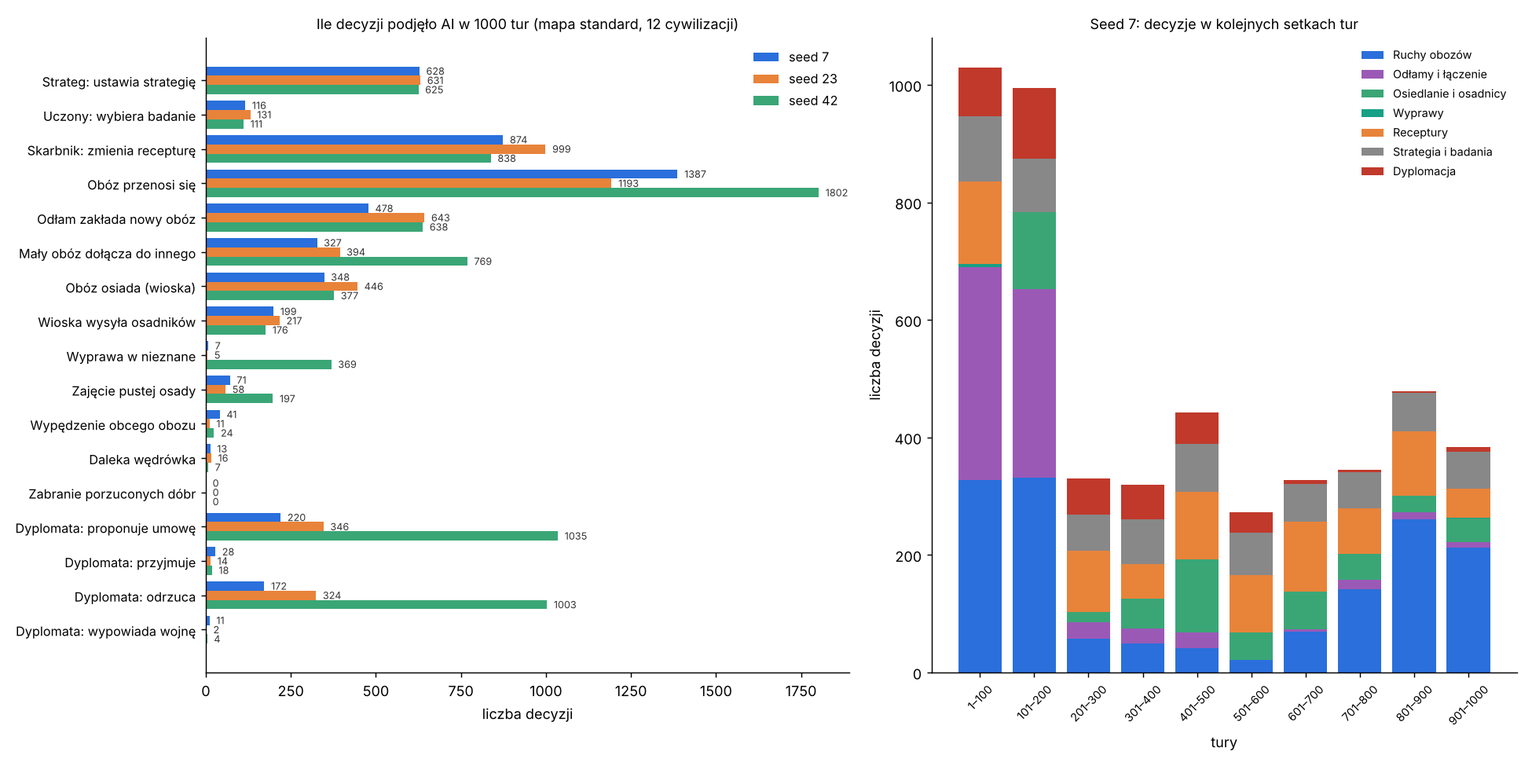
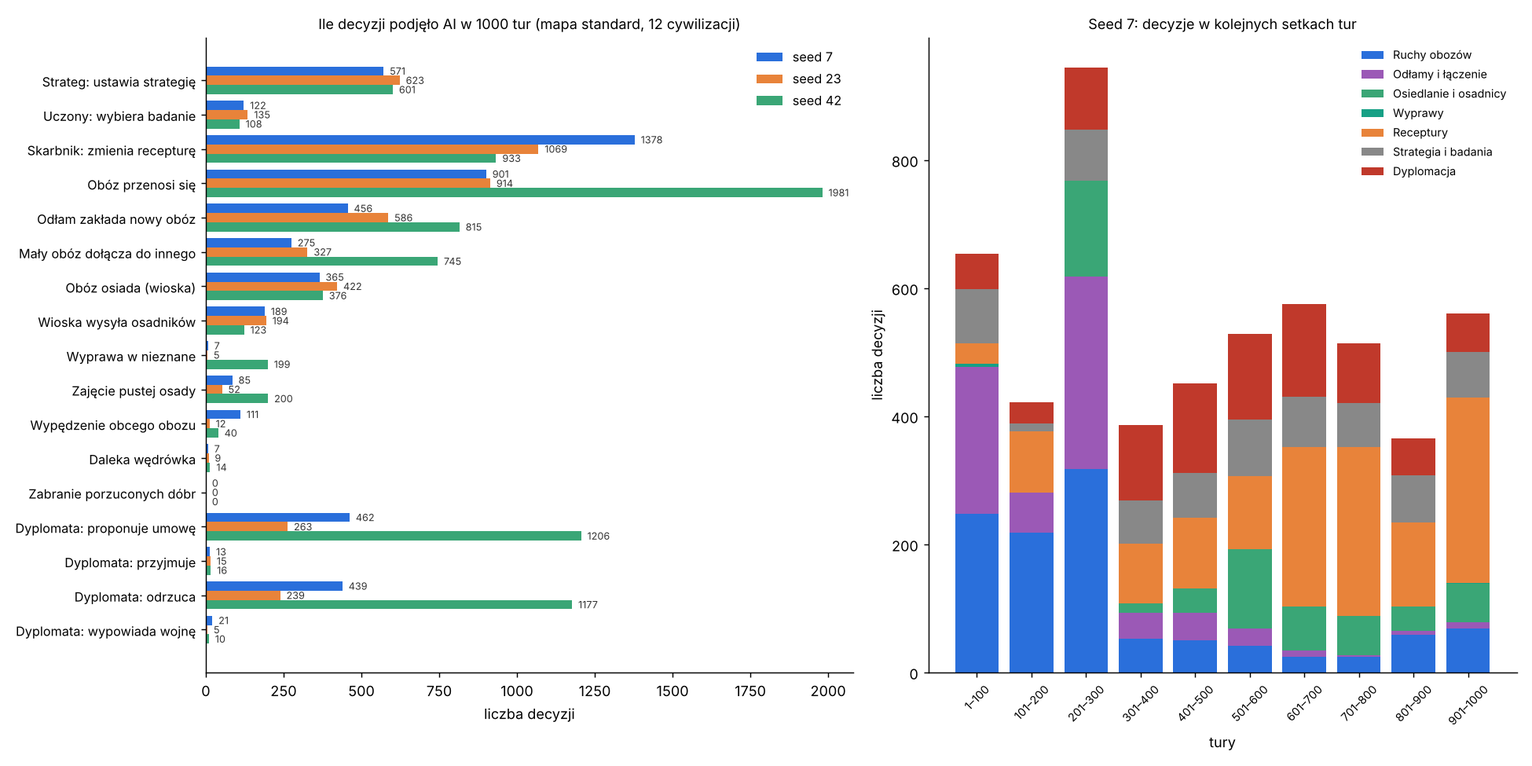
Stage 4e PR 2: docs, statistics, roadmap
Claude-Session: https://claude.ai/code/session_01G7FPnTQzrnWpHdyxDhMmdW

diff --git a/docs/ai/README.md b/docs/ai/README.md
@@ -4,7 +4,7 @@ Ten katalog opisuje **każdą decyzję**, którą podejmuje sztuczna inteligencj
 na podstawie jakich danych, według jakiego wzoru, z jakimi progami i gdzie to jest w kodzie. Jest pisany dla Patryka:
 żeby można było ocenić, czy mechanika nie jest za prosta albo za skomplikowana i bez sensu.
 
-**Stan opisu:** etap 4d + zegar świata (ADR 0018) + wartości i priorytety (PR B, ADR 0019) + ziemia i migracje (PR C) + fachy, ludzie i demografia (cały etap 4F) + wojna z celem i pokój z warunkami (etap 4e PR 1, gałąź `feat/war-goals`). Dowódca i armie (4e PR 2–4) jeszcze nie istnieją.
+**Stan opisu:** etap 4d + zegar świata (ADR 0018) + wartości i priorytety (PR B, ADR 0019) + ziemia i migracje (PR C) + fachy, ludzie i demografia (cały etap 4F) + wojna z celem i pokój z warunkami (etap 4e PR 1) + epizody i pierwszy dowódca (etap 4e PR 2, gałąź `feat/war-episodes`). Armie z wielu osad, bitwy w rundach i pełny dowódca: 4e PR 3–5.
 **Aktualizacja:** po każdym etapie, który zmienia AI (zasada w `CLAUDE.md`). Historia zmian jest na dole tej strony.
 
 ## Jak czytać
@@ -13,7 +13,7 @@ na podstawie jakich danych, według jakiego wzoru, z jakimi progami i gdzie to j
 2. [Wspólne mechanizmy](01-wspolne-mechanizmy.md): jak AI liczy ocenę, jak wybiera, czym jest charakter i waga celu. Bez tego reszta
    jest niezrozumiała, bo wszyscy doradcy liczą tak samo.
 3. Doradcy, każdy w osobnym pliku: [Strateg](02-strateg.md), [Gubernator](03-gubernator.md), [Skarbnik](04-skarbnik.md),
-   [Uczony](05-uczony.md), [Dyplomata](10-dyplomata.md).
+   [Uczony](05-uczony.md), [Dyplomata](10-dyplomata.md), [Dowódca](11-dowodca.md) (od etapu 4e).
 4. [Co AI wie](06-wiedza-i-relacje.md): pamięć mapy, kontakty, sympatia i zaufanie.
 5. [Wszystkie liczby](07-parametry.md): każdy parametr z plikiem, wartością i decyzją, na którą wpływa. Także liczby zaszyte w kodzie.
 6. [Ocena i uwagi](08-ocena-i-uwagi.md): co naprawdę działa, co jest tylko „na papierze”, gdzie AI jest za proste, a gdzie
@@ -67,7 +67,8 @@ zjedli” to wynik poprzedniego kroku tej cywilizacji).
 | **T1** | Skarbnik | jaką recepturę robią rzemieślnicy osady | `SetRecipeCommand` | własny krok na decyzje wolne | [04-skarbnik.md](04-skarbnik.md) |
 | **U1** | Uczony | jaką technologię badać: priorytet (co da tej cywilizacji) × przeszkoda kosztu | `SetResearchCommand` | gdy nic nie jest badane (reaktywnie, każdy krok świata) | [05-uczony.md](05-uczony.md) |
 | **D1** | Dyplomata | przyjąć czy odrzucić propozycję umowy | `AnswerProposalCommand` | każdy krok świata (reaktywnie) | [10-dyplomata.md](10-dyplomata.md#d1-odpowiedź-na-propozycję-reaktywna) |
-| **D2** | Dyplomata | jeden krok wobec spotkanych: handel, pakt o nieagresji, sojusz obronny, wojna, pokój | `ProposeTreatyCommand`, `DeclareWarCommand` | co 50 lat we własnym kroku (rozłożone); od razu po wypowiedzianej wojnie albo napadzie | [10-dyplomata.md](10-dyplomata.md#d2-przegląd-stosunków-proaktywny) |
+| **D2** | Dyplomata | jeden krok wobec spotkanych: handel, pakt o nieagresji, sojusz obronny, wojna, pokój | `ProposeTreatyCommand`, `DeclareWarCommand` | co 50 lat we własnym kroku (rozłożone); od razu po wypowiedzianej wojnie albo napadzie; pokój także w każdym kroku świata między kampaniami, gdy strona jest zmęczona albo wynik pozwala żądać warunków (od 4e PR 2) | [10-dyplomata.md](10-dyplomata.md#d2-przegląd-stosunków-proaktywny) |
+| **K1** | Dowódca | wysłać kampanię: wojownicy jednej osady przeciw osadzie wroga (od 4e PR 2) | `LaunchCampaignCommand` | własny krok i miesiąc po alarmie (wojna, napaść) | [11-dowodca.md](11-dowodca.md) |
 
 **Własny krok na decyzje wolne:** własny krok cywilizacji, który zaczyna okres o długości kroku jej ery (`WorldClock.PlansNow`). Na
 Ziemi to każdy własny krok (poza krótszym krokiem zaraz po zmianie ery); na planecie z porami roku na żywo krok jest krótszy, a
@@ -127,6 +128,7 @@ w `docs/systems/`:
 | 2026-11-06 | zegar (ADR 0018) | Rytm każdej cywilizacji: decyzje proaktywne we własnym kroku, reaktywne (alarmy wojny i napadu, propozycje, wybór badania) w każdym kroku świata; nowe reakcje D2 i G2; odstępy AI w własnych krokach (`reviewEverySteps`, `searchEverySteps`, `minStepsBetweenMoves`); zwiad, widzenie i pogłoski w własnym kroku; nowe statystyki, wykres rytmów i ludności przed/po. |
 | 2026-11-06 | wartości (PR B, ADR 0019) | Uczony od nowa (priorytet z położenia, braków i charakteru, koszt jako przeszkoda łagodzona ciekawością); skarbnik: cele towarów, koordynacja sieci, koniec przełączania „praca ↔ brak”, premia za handel; strateg: wagi nauki i wpływu; „zostać” z połową wagi ekspansji; obce obozy i wojownicy tylko z pól widzianych teraz; 11 liczb z kodu do `data/ai.json` (sekcja `scholar`); test martwych wartości; nowe statystyki z 3 seedów, wykresy decyzji i „przed/po”. |
 | 2026-11-06 | ziemia i migracje (PR C) | Gubernator wycenia ziemię z technologiami zbierania cywilizacji, rybacy liczą wodę; G4 osiedlenie dla prawdziwej liczby producentów i w porównaniu ze zbieractwem i ekspansywnością (`settleOverGatheringPercent`); nowe decyzje G7 (wioska wysyła osadników) i G8 (wyprawa w nieznane); osadnicy omijają strefy własnych osad; zwiad i marsz na stulecie (`data/perception.json`); nowe parametry w `data/ai.json`; punkty 4, 5, 6 i 8 oceny zamknięte, nowy punkt 10 (wydajność); statystyki z 3 seedów, wykres ziemi i migracji, wykres decyzji z G7 i G8. |
+| 2026-11-07 | epizody i kampanie (etap 4e, PR 2) | Nowy doradca: dowódca (K1) wysyła kampanie (szansa z tego, co widzi, próg 60%; cel niewidoczny: idą zobaczyć i zawracają przed silniejszym). Dyplomata myśli o pokoju w każdym kroku świata między kampaniami (zmęczenie ≥ 60 albo wynik ≥ 20). Alarmy dają krok świata po miesiącu (reakcje szybciej). Zmęczenie z miesięcy kampanii, nie z lat. Parametry dowódcy chwilowo w `data/war.json` (do `ai.json` w PR 5). |
 | 2026-11-07 | wojna z celem (etap 4e, PR 1) | Dyplomata: cel wojny (ziemia przy roszczeniu, inaczej odwet), zmęczenie wojną (lata + straty, `data/war.json`) zamiast lat wojny w ocenie pokoju, nowy czynnik „warunki pokoju”, pokój proponowany z warunkami (osada, okup, biały) i przy zmęczeniu ≥ 60 w każdym kroku; agresja jako powód wojny. Nowe parametry w `07-parametry.md`, statystyki wojen w `09-statystyki.md`, nowy wykres decyzji. |
 | 2026-11-06 | koniec etapu 4F (PR 5) | Bez zmian w decyzjach AI. Statystyki z 3 seedów po całym etapie 4F (obozy przenoszą się 5–9 razy rzadziej przy wolniejszym przyroście), nowy wykres decyzji, sekcja „Demografia” w statystykach; graf technologii i fachów z danych: `docs/systems/graf-technologii.md`. |
 | 2026-11-06 | demografia (etap 4F, PR 4) | Bez zmian w decyzjach AI i w `data/ai.json`. Ludzie rosną wolniej (+1,0‰ na rok na start), więc po kilku turach rzadziej są obce odłamy: w teście martwych wartości sytuacja „wypędzenie” dostaje w razie potrzeby małą placówkę sąsiada i stary uraz (sympatia −5000). |

diff --git a/docs/systems/episodes.md b/docs/systems/episodes.md
@@ -1,0 +1,50 @@
+# Epizody (krótki zegar)
+
+**W jednym zdaniu:** zdarzenia z przebiegiem, które w rzeczywistości trwają tygodnie albo miesiące (dziś kampanie wojenne), liczą się we własnych krokach co miesiąc, a reszta świata zostaje na długich krokach er (ADR 0022, GDD 6.2).
+
+**Faza tury:** zegar w fazie zapisu (`CalendarSystem`, `WorldClock.Begin` i `WorldClock.Shorten`); kampanie w fazie walki (`CampaignSystem`, faza 6); decyzje dowódcy i dyplomaty w fazie decyzji.
+
+**Stan:** etap 4e PR 2: silnik epizodów i pierwsza kampania.
+
+## Dane wejściowe i wyjściowe
+- Czyta: `data/war.json` (krok kampanii, marsz, ciche wygasanie wojny, progi dowódcy), kroki cywilizacji, wojny, alarmy.
+- Zmienia: `GameState.Episodes` (lista epizodów), `GameState.StepMonths` (długość kroku świata) i `GameState.WorldMonths` (ile miesięcy liczy sam świat), wojowników i zapasy osad, wynik i zmęczenie wojny.
+- Publikuje: kronika (wyprawa wyszła, najazd, zdobycie, odwrót, powrót); Headless `--wars` (kampanie, miesiące kampanii). Migawka dla podglądu: w PR 3.
+
+## Przepływ
+
+```mermaid
+flowchart TD
+  B["Początek kroku świata<br/>WorldClock.Begin"] --> P{"Czy jakaś cywilizacja<br/>ma krok?"}
+  P -- tak --> F["Krok pełny: świat liczy klimat, odrastanie,<br/>strefy za miesiące do następnego kroku cywilizacji<br/>(WorldMonths)"]
+  P -- nie --> E["Krok epizodów: świat czeka<br/>(WorldMonths = 0)"]
+  F --> D["Decyzje: cywilizacje w kroku + alarmy<br/>dowódca wysyła kampanię, dyplomata myśli o pokoju"]
+  E --> D
+  D --> C["Walka: kampanie, których krok przypada teraz<br/>marsz 3 pola, walka u celu, powrót"]
+  C --> S["Shorten: kampania, alarm albo cicha wojna<br/>skracają krok świata"]
+  S --> N["Następny krok świata = najbliższy krok<br/>cywilizacji, epizodu, alarmu albo końca cichej wojny"]
+```
+
+## Zasady i wzory
+- **Krok świata** trwa do najbliższego z: kroku jakiejś cywilizacji (rytm ery, ADR 0018), kroku epizodu (kampania: co miesiąc), reakcji na alarm (następny miesiąc), końca cichej wojny (5 lat bez kampanii).
+- **Krok pełny** (ktoś ma krok ery): świat liczy klimat, pory roku, odrastanie dzikiej żywności, odpoczynek ziemi, strefy i spory za `WorldMonths` = miesiące do następnego kroku cywilizacji. Kroki epizodów leżą w środku tego okresu i nie liczą go drugi raz.
+- **Krok epizodów:** żadna cywilizacja nie ma kroku; systemy świata nie liczą nic, liczą się tylko kampanie, odpowiedzi na propozycje i decyzje po alarmach.
+- **Skrócenie kroku** (`WorldClock.Shorten`, przed upływem czasu): gdy w kroku wysłano kampanię, wypowiedziano wojnę (alarm) albo cicha wojna kończy się wcześniej, krok świata kończy się wcześniej. Kroki cywilizacji (gospodarka liczona na cały ich krok) się nie zmieniają.
+- **Kampania** (`LaunchCampaignCommand`, `CampaignSystem`):
+  - wychodzą wojownicy jednej osady: co najmniej 5, najwyżej 2/3 (1/3 zostaje w domu);
+  - marsz: 3 pola na miesiąc po znanych polach (ok. 150 km na pole; ok. 15 km dziennie);
+  - u celu wojownicy widzą osadę: atakują tylko przy szansie co najmniej 60%, inaczej wracają;
+  - walka: szansa = ich udział w sile (wojownicy przeciw wojownikom + 25% reszty mieszkańców), na strumieniu `combat`; straty jak przy napaści;
+  - wygrana: łupy (tyle, ile uniosą wojownicy, ten sam udział każdego zapasu); w wojnie o ziemię zdobyta wioska przechodzi z ludźmi do zwycięzcy, a pokonani mają do niej roszczenie;
+  - powrót: ocaleni i łupy wracają do osady (albo do najbliższej własnej, gdy domu już nie ma).
+- **Wojna** (`WarSystem`): wojna bez kampanii przez 5 lat kończy się białym pokojem; zmęczenie = miesiące kampanii × 5 + procent zabitych × 3.
+
+## Pliki danych
+- `data/war.json`: `campaignStepMonths` 1, `marchCellsPerMonth` 3, `quietPeaceYears` 5, `wearinessPerCampaignMonth` 5, `minWinChancePercent` 60, `sendPercent` 67, `minWarriors` 5 (ostatnie trzy przejdą do `data/ai.json` z dowódcą w PR 5).
+
+## Testy
+- `EpisodeTests`: kampania dodaje kroki co miesiąc, a świat czeka; cicha wojna kończy się po 5 latach, a nie w następnym długim kroku; kampania zawraca przed zbyt silnym celem; kampania wymaga wojny i zostawia 1/3 w domu; zapis w trakcie marszu i dalsza gra dają ten sam hash.
+- `DeterminismTests`, `WorldGeneratorTests`: nowe wartości kontrolne hashy.
+
+## Wydajność
+- Krok epizodów kosztuje ułamek milisekundy (świat nie liczy nic). Pomiar całej gry: w opisie PR.

diff --git a/docs/systems/war.md b/docs/systems/war.md
@@ -4,7 +4,7 @@
 
 **Faza tury:** 6. Walka (`WarSystem`), w krokach cywilizacji (ADR 0018). Wypowiedzenie wojny i pokój: faza decyzji (komendy dyplomaty).
 
-**Stan:** PR 1 zrobiony (cel, wynik, zmęczenie, pokój z warunkami). Wyprawy, uzbrojenie, bitwy, zaopatrzenie i dowódca w PR 2–4 (`docs/prompts/07-etap-wojna.md`).
+**Stan:** PR 1 (cel, wynik, zmęczenie, pokój z warunkami) i PR 2 (kampanie jako epizody z krokiem co miesiąc, `docs/systems/episodes.md`, ADR 0022). Wyprawy, uzbrojenie, bitwy, zaopatrzenie i dowódca w PR 2–4 (`docs/prompts/07-etap-wojna.md`).
 
 ## Dane wejściowe i wyjściowe
 - Czyta: `data/war.json`, traktaty (`TreatyBook`), wspomnienia relacji, osady stron.
@@ -17,8 +17,9 @@
 flowchart TD
   C["Powód: zabrana osada, napaść"] --> D["Wypowiedzenie z celem<br/>ziemia, łupy, odwet"]
   D --> R["Świadkowie pamiętają napaść<br/>(łupy 100%, ziemia 50%, odwet 0%)"]
-  D --> W["Walki: napaści w czasie wojny<br/>wynik ± za walkę i zdobytą osadę"]
-  W --> Z["Zmęczenie co krok:<br/>lata wojny + straty"]
+  D --> W["Kampanie co miesiąc (epizody) i napaści obozów<br/>wynik ± za walkę i zdobytą osadę"]
+  W --> Z["Zmęczenie:<br/>miesiące kampanii + straty"]
+  W --> Q["5 lat bez kampanii:<br/>biały pokój"]
   Z --> M["Efekt war_weariness: nastrój −"]
   Z --> P["Pokój z warunkami<br/>osada / okup / biały"]
   P --> T["Rozejm"]
@@ -31,7 +32,9 @@ flowchart TD
   pamiętają ją w procencie z celu: ziemia 100/50, łupy 100/100, odwet 50/0.
 - **Wynik** (`Treaty.Score`, z perspektywy strony A, −100…+100, `Wars.RecordFight`): napaść w czasie wojny daje zwycięzcy +10, a zdobyta osada +15 więcej.
   Straty to ludzie zabici w walce (wojownicy obu stron i uciekający), liczone osobno dla stron.
-- **Zmęczenie** (`Wars.ComputeWeariness`, co turę w `WarSystem`): `lata wojny × 1 + procent ludzi strony zabitych w wojnie × 3`, najwyżej 100.
+- **Zmęczenie** (`Wars.ComputeWeariness`, co krok świata w `WarSystem`): `miesiące kampanii w tej wojnie × 5 + procent ludzi strony zabitych w wojnie × 3`, najwyżej 100 (od PR 2; w PR 1 liczyły się lata wojny).
+- **Kampanie** (PR 2, `docs/systems/episodes.md`): wyprawa wojowników jednej osady maszeruje co miesiąc, walczy u celu i wraca z łupami; w wojnie o ziemię zdobyta wioska przechodzi z ludźmi.
+- **Ciche wygasanie** (PR 2): wojna, w której przez 5 lat nikt nie prowadził kampanii, kończy się białym pokojem (zegar robi krok dokładnie w tym miesiącu).
   Ludzie strony to jej ludność w chwili wypowiedzenia.
 - **Nastrój:** każda cywilizacja w wojnie dostaje efekt `war_weariness` (nastrój wszystkich osad) = −największe zmęczenie × 20 / 100; trwa jeszcze
   jedną turę po końcu wojny.
@@ -57,6 +60,7 @@ Przy każdym etapie nowej ery (etapy 6–12) sprawdź i uzupełnij:
 - `data/war.json` (PR 1).
 
 ## Testy
+- `EpisodeTests` (PR 2): kampanie co miesiąc, ciche wygasanie, odwrót przed silnym celem, 1/3 w domu, zapis w trakcie marszu.
 - `WarTests` (PR 1): dane; cel, który da się nazwać; agresja u ofiary i świadków według celu; wynik i zmęczenie z lat i strat; spadek nastroju;
   zwycięzca bierze osadę, o którą była wojna; okup w wojnie o łupy; złe warunki odrzucone; zapis; błędy w danych.
 - `TreatyTests`: wojny z celem „łupy” (tekst kroniki „for loot”).

diff --git a/docs/ai/10-dyplomata.md b/docs/ai/10-dyplomata.md
@@ -81,8 +81,11 @@ osada), w innym razie **odwet**. Wojny o łupy dyplomata sam nie wypowiada (to d
   `(miesiąc + 84 × numer cywilizacji) mod 600 < długość jej kroku w miesiącach` (84 miesiące = 7 lat, `reviewStaggerYears`). W epoce kamienia (krok 50 lat) więc w **każdym
   własnym kroku**; w neolicie co drugim; przy krokach półrocznych w jednym ze 100 (od ADR 0018 bez powtórek w roku przeglądu).
 - **Kiedy (reaktywnie, ADR 0018):** w najbliższym kroku świata po tym, jak ktoś **wypowiedział jej wojnę** albo **napadł jej obóz**,
-  także poza rytmem. Wtedy rozważa te same kroki (pokój, sojusz z kimś trzecim, odwet wojną). Od 4e także w każdym własnym kroku,
-  gdy jej zmęczenie wojną ≥ 60.
+  także poza rytmem. Wtedy rozważa te same kroki (pokój, sojusz z kimś trzecim, odwet wojną). Od 4e PR 2 alarm daje krok świata
+  w następnym miesiącu.
+- **Kiedy (tylko pokój, od 4e PR 2):** w **każdym kroku świata** (także w krokach kampanii, co miesiąc), gdy w którejś wojnie nie mamy
+  własnej kampanii w drodze, a nasze zmęczenie wojną ≥ 60 albo wynik wojny ≥ ±20 (można żądać lub oferować warunki). Wtedy rozważa
+  tylko pokój w takich wojnach (`ReviewWars`).
 - **Kandydaci:** dla każdej spotkanej cywilizacji:
   - w wojnie z nią: tylko **pokój** (D3), jeśli ocena ≥ 1000, a gdy nasze zmęczenie wojną ≥ 60 (`war.json` `peaceAbove`), przy każdej
     ocenie powyżej zera;
@@ -100,9 +103,11 @@ osada), w innym razie **odwet**. Wojny o łupy dyplomata sam nie wypowiada (to d
   (sympatia −20, zaufanie −40, 200 lat), a każda cywilizacja, która zna obie, pamięta to w 50% (`witnessPercent`).
 - **Sojusznicy ofiary:** każdy dołącza do wojny z szansą `300‰ + 700‰ × lojalność/1000` (`allyJoinBasePerMille`). Dołączył: ofiara
   pamięta „pomoc w wojnie”. Nie dołączył: sojusz się rozpada, ofiara pamięta „złamanie traktatu”. Sojusznik obu stron zostaje z boku.
-- **W wojnie:** gubernator (G2) może wypędzać obozy wroga z premią ×1,5 (`warRaidPercent`). Armii jeszcze nie ma (etap 4e).
+- **W wojnie:** gubernator (G2) może wypędzać obozy wroga z premią ×1,5 (`warRaidPercent`); dowódca (K1) wysyła kampanie
+  ([dowódca](11-dowodca.md)). Wojna, w której przez 5 lat nikt nie prowadził kampanii, kończy się sama białym pokojem.
 - **Wynik i zmęczenie (od 4e):** napaść w czasie wojny daje zwycięskiej stronie +10 do wyniku, zdobyta osada +15 więcej (−100…+100).
-  Zmęczenie strony = lata wojny × 1 + procent jej ludzi zabitych w wojnie × 3 (najwyżej 100). Nastrój wszystkich jej osad spada o
+  Zmęczenie strony = miesiące kampanii w tej wojnie × 5 + procent jej ludzi zabitych w wojnie × 3 (najwyżej 100; od 4e PR 2,
+  wcześniej lata wojny × 1). Nastrój wszystkich jej osad spada o
   zmęczenie × 20 / 100 (efekt `war_weariness`).
 - **Pokój z warunkami (od 4e):** proponujący liczy warunki z wyniku (`Wars.TermsFor`): przy wyniku co najmniej ±20 przegrany oddaje
   osadę, o którą była wojna o ziemię, a w innym razie płaci jednorazowy okup: (wynik − 20 + 1) × 0,5% każdego zapasu (najwyżej 40%);

diff --git a/docs/ai/11-dowodca.md b/docs/ai/11-dowodca.md
@@ -1,0 +1,38 @@
+# Dowódca (K1)
+
+[← spis treści](README.md) · kod: `src/CivSim.Core/Ai/CommanderAdvisor.cs`, `src/CivSim.Core/Episodes/Campaigns.cs` · dane: `data/war.json` ·
+GDD 8.1, 9.3 · etap 4e PR 2 (ADR 0022). Pierwsza, prosta wersja: pełny dowódca (decyzje co miesiąc kampanii, armie z wielu osad,
+spodziewany wynik bitwy w rundach) przyjdzie w PR 5.
+
+Dowódca wysyła **kampanie**: wyprawy wojowników jednej osady przeciw osadzie wroga. Kampania to epizod z krokiem co miesiąc
+([epizody](../systems/episodes.md)): marsz, walka u celu, powrót z łupami.
+
+## K1: Wysłanie kampanii
+
+- **Kiedy:** we własnym kroku cywilizacji i **reaktywnie** w kroku świata zaraz po alarmie: wypowiedzieliśmy wojnę albo
+  przystąpiliśmy do niej (nowy alarm „poszliśmy na wojnę”), wypowiedziano nam wojnę, napadnięto nasz obóz. Alarm daje krok świata
+  w następnym miesiącu, więc dowódca reaguje po miesiącu, a nie po 50 latach.
+- **Dla każdej wojny** naszej cywilizacji, w której nie mamy już własnej kampanii w drodze i nasze zmęczenie wojną jest poniżej 60
+  (`peaceAbove`).
+- **Kandydaci:** każda nasza osada, której wojownicy nie są w drodze i która może wysłać co najmniej 5 wojowników
+  (`minWarriors`) przy 2/3 jej wojowników (`sendPercent`: 1/3 zostaje w domu, decyzja Patryka z 2026-11-07).
+- **Cel:** osada, o którą jest wojna (gdy to my ją wypowiedzieliśmy o ziemię i znamy jej położenie), w innym razie najbliższa znana
+  osada wroga w zasięgu wędrówki (40 pól).
+- **Szansa** (`Campaigns.WinChancePercent`): gdy cel widzieliśmy w ostatnim własnym kroku, to nasz udział w sile
+  (`wojownicy / (wojownicy + obrona)`, obrona = ich wojownicy + 25% reszty mieszkańców). Odrzucamy cel z szansą poniżej 60%
+  (`minWinChancePercent`). Gdy go nie widzimy, nikt nie wie: wojownicy idą zobaczyć (w ocenie szansa 50%). Na miejscu atakują tylko
+  przy prawdziwej szansie co najmniej 60%, w innym razie zawracają (decyzja Patryka: dowódca nie idzie na pewną porażkę).
+- **Ocena:** `1000 × szansa × waga celu „podbój” × mnożnik charakteru (agresja)`, odległość tylko w zapisie „Dlaczego?”.
+- **Wybór:** najlepsza ocena (jedna kampania na wojnę naraz).
+- **Komenda:** `LaunchCampaignCommand` (działanie `LaunchCampaign`). Serwer sprawdza wojnę, znajomość celu, drogę, 1/3 w domu.
+
+## Co się dzieje po decyzji
+
+- Wojownicy wychodzą od razu, marsz 3 pola na miesiąc (`marchCellsPerMonth`) po znanych polach.
+- U celu: atak przy szansie ≥ 60%, inaczej odwrót. Walka jak napaść (losowanie udziału siły na strumieniu `combat`).
+- Wygrana: łupy (tyle, ile uniosą wojownicy), w wojnie o ziemię zdobycie wioski z ludźmi; wynik wojny +10 (+15 za osadę).
+- Powrót: ocaleni i łupy do domu. Każdy miesiąc kampanii dodaje 5 punktów zmęczenia obu stronom wojny.
+
+## Zapis „Dlaczego?”
+
+Czynniki: `win chance`, `distance` (tylko zapis), waga celu i charakter. Cel wpisu: osada wyjścia (`settlement`) i osada celu (`target`).

diff --git a/ROADMAP.md b/ROADMAP.md
@@ -168,8 +168,8 @@ Gotowe, gdy: w 3 grach po 1000 tur wojny mają cel i kończą się pokojem z war
 morale i uzbrojenie z technologii, dowódca nie rusza na przegraną wojnę, a zmęczenie wojną widać w nastroju.
 
 - [x] **PR 1:** cel wojny (ziemia, łupy, odwet), wynik i zmęczenie (efekt na nastrój), pokój z warunkami (osada, okup, biały pokój), wspomnienie „napaść bez powodu”; dzisiejsze napaści liczą się do wyniku; `data/war.json`, zapis, hash, `--wars` w Headless; dyplomata wybiera cel i warunki
-- [ ] **PR 2:** epizody (krótki zegar w miesiącach, kroki pełne i kroki epizodów, `WorldMonths`, zapis, hash, determinizm) i pierwsza kampania: wyprawa wojowników z jednej osady, marsz po mapie, walka u celu, powrót z łupami; wojna bez kampanii wygasa po 5 latach; zmęczenie z miesięcy kampanii i strat; prosty wybór kampanii przez AI z progiem szansy
-- [ ] **PR 3:** uzbrojenie z technologii (gołe ręce, drewniane włócznie, proce, kamienne groty; wpisy w danych); wyprawy z wielu osad (1/3 zostaje w domu), limit wodza i ludzi na polu z danych er (front na kilku polach gotowy na przyszłe ery); tragarze z jedzeniem po trasie, głodna wyprawa napada wioski
+- [x] **PR 2:** epizody (krótki zegar w miesiącach, kroki pełne i kroki epizodów, `WorldMonths`, zapis, hash, determinizm) i pierwsza kampania: wyprawa wojowników z jednej osady, marsz po mapie, walka u celu, powrót z łupami; wojna bez kampanii wygasa po 5 latach; zmęczenie z miesięcy kampanii i strat; prosty wybór kampanii przez AI z progiem szansy (kampanie w migawce dla podglądu: przeniesione do PR 3)
+- [ ] **PR 3:** kampanie w migawce i w podglądzie; uzbrojenie z technologii (gołe ręce, drewniane włócznie, proce, kamienne groty; wpisy w danych); wyprawy z wielu osad (1/3 zostaje w domu), limit wodza i ludzi na polu z danych er (front na kilku polach gotowy na przyszłe ery); tragarze z jedzeniem po trasie, głodna wyprawa napada wioski
 - [ ] **PR 4:** bitwa w rundach (teren, morale, uzbrojenie, najedzenie, ucieczka, straty), podbój wioski z ludźmi, ucieczka z obozu
 - [ ] **PR 5:** AI: dowódca (spodziewany wynik bitwy z tego, co widzi, próg szansy w `data/ai.json`; zbiórka, marsz, atak, czekanie, odwrót, obrona co miesiąc kampanii); test martwych wartości; `docs/ai/`
 - [ ] **PR 6:** strojenie i statystyki z 3 seedów (wojny, kampanie, bitwy, straty, zmęczenie), `docs/systems/war.md` z sekcją „Co erę”

diff --git a/docs/ai/08-ocena-i-uwagi.md b/docs/ai/08-ocena-i-uwagi.md
@@ -197,13 +197,20 @@ decyzją AI (ile uczyć). To ostatnie zostawiam do decyzji Patryka: reguła dzia
 **Skutek uboczny do obserwacji:** w środkowych stuleciach jest więcej obozów i przeprowadzek niż przed PR 2, bo obóz osiada dopiero,
 gdy ma rolnika, a rolnictwo rozchodzi się z mistrzami, nie od razu do wszystkich. Liczby: `09-statystyki.md`.
 
-## 12. Wojna: zmęczenie rośnie głównie z lat (etap 4e, PR 1)
+## 12. Wojna: zmęczenie rosło głównie z lat (etap 4e, PR 1; poprawione w PR 2)
 
 - **Co jest za proste:** w epoce kamienia krok ma 50 lat, a zmęczenie rośnie o 1 punkt na rok, więc po 2 krokach każda strona ma 100
   niezależnie od strat i wyniku. Pokój przychodzi „z nudów”, a nie z przegranych bitew. Straty w napaściach są małe (kilka osób).
 - **Cel wojny wybiera dyplomata z prostej reguły** (roszczenie → ziemia, inaczej odwet). Nie waży łupów ani wartości osady.
-- **Plan:** w PR 2–4 bitwy wypraw dadzą prawdziwe straty, a dowódca będzie liczył szanse i cel; w PR 5 strojenie `wearinessPerYear`
-  (np. 0,3) i `wearinessPerLossPercent`, żeby straty ważyły więcej niż czas.
+- **PR 2 (ADR 0022):** walka toczy się w kampaniach co miesiąc, zmęczenie rośnie z miesięcy kampanii i strat, a wojna bez kampanii
+  wygasa po 5 latach. Wojny trwają teraz 5–6 lat (w tym kilka do kilkunastu miesięcy kampanii).
+- **Co dalej jest za proste:**
+  - przegrany prawie nigdy nie przyjmuje warunków (opinia o wrogu −100 daje czynnik 0,3, a oddanie czegoś jeszcze go obniża), a po
+    odmowie ta sama propozycja nie wraca przez 100 lat, więc wojny kończą się zwykle cichym białym pokojem bez okupu;
+  - dowódca widzi tylko cele w zasięgu wzroku; resztę „idzie zobaczyć”;
+  - jedna osada na kampanię, walka jednym rzutem, bez terenu i morale.
+- **Plan:** PR 3 (armie z wielu osad, uzbrojenie, tragarze), PR 4 (bitwa w rundach), PR 5 (dowódca co miesiąc), PR 6 (strojenie,
+  m.in. czynnik „przegrywam” w ocenie pokoju i krótszy `retryYears` dla pokoju).
 
 ## Decyzje Patryka (2026-11-06)
 

diff --git a/docs/ai/07-parametry.md b/docs/ai/07-parametry.md
@@ -122,7 +122,13 @@ w zapisanych sytuacjach z gier. Parametr, który niczego nie zmienia, wywala tes
 | `goals[].witnessPercent` | ziemia 50, łupy 100, odwet 0 | % | D3 | jak mocno pamiętają ją świadkowie |
 | `scorePerWin` | 10 | punkty wyniku | D3, D1 | wygrana walka |
 | `scorePerSettlement` | 15 | punkty wyniku | D3, D1 | zdobyta osada (ponad walkę) |
-| `wearinessPerYear` | 1 | punkty na rok | D1, D2 | zmęczenie z lat wojny |
+| `wearinessPerCampaignMonth` | 5 | punkty na miesiąc kampanii | D1, D2, K1 | zmęczenie z miesięcy kampanii (od PR 2; wcześniej `wearinessPerYear` 1) |
+| `campaignStepMonths` | 1 | miesiące | — | krok kampanii (epizodu) |
+| `marchCellsPerMonth` | 3 | pola na miesiąc | K1 | marsz kampanii |
+| `quietPeaceYears` | 5 | lata | — | wojna bez kampanii kończy się białym pokojem |
+| `minWinChancePercent` | 60 | % | K1 | najmniejsza szansa, przy której dowódca wysyła kampanię na widziany cel i przy której wojownicy atakują u celu |
+| `sendPercent` | 67 | % wojowników osady | K1 | ilu wojowników może wyjść (1/3 zostaje w domu) |
+| `minWarriors` | 5 | wojownicy | K1 | najmniejsza kampania |
 | `wearinessPerLossPercent` | 3 | punkty na % ludzi zabitych | D1, D2 | zmęczenie ze strat |
 | `peaceAbove` | 60 | punkty zmęczenia | D2 | od tego zmęczenia strona szuka pokoju w każdym kroku i przy każdej ocenie |
 | `moodAtFullWeariness` | 20 | punkty nastroju | — | spadek nastroju przy zmęczeniu 100 |

diff --git a/docs/ai/09-statystyki.md b/docs/ai/09-statystyki.md
@@ -16,6 +16,22 @@ Wykres: `python3 docs/ai/tools/decisions_chart.py <katalog z why7.csv, why23.csv
 
 ![Ile decyzji podjęło AI](img/decyzje_1000_tur.png)
 
+## Kampanie co miesiąc (etap 4e, PR 2)
+
+Z `--wars` i `--decisions` (3 seedy, mapa standard, 1000 kroków świata); w nawiasach po PR 1:
+
+| Seed | Wojny | Średnio trwa | Kampanie (miesiące) | Zabici razem | Pokój | Decyzje razem |
+| --- | ---: | --- | --- | ---: | --- | ---: |
+| 7 | 17 (11) | 65 mies. (205 lat) | 19 (80) | 352 (122) | biały 17 | 5428 (4920) |
+| 23 | 5 (2) | 65 mies. (225 lat) | 4 (27) | 4 (38) | biały 5 | 4874 (5430) |
+| 42 | 10 (4) | 62 mies. (187 lat) | 4 (12) | 96 (31) | biały 10 | 8549 (7993) |
+
+- **Wojny trwają 5–6 lat zamiast 150–300.** Kampania trwa od 2 do kilkunastu miesięcy; po 5 latach bez kampanii wojna wygasa.
+- **Dowódca wysłał 4–26 kampanii na grę.** Wojownicy częściej najeżdżają, niż zdobywają osady; kilka razy zawrócili przed silniejszym celem.
+- **Wszystkie pokoje są białe:** przegrany odrzuca warunki (opinia o wrogu bliska −100), a odrzucona propozycja wraca dopiero po 100 latach
+  ([uwagi, punkt 12](08-ocena-i-uwagi.md)). Do strojenia w PR 6.
+- Gra przechodzi przez 26–29 tys. lat w 1000 krokach świata (było 29 tys.): kroki kampanii i alarmów dzielą długie kroki.
+
 ## Wojny z celem (etap 4e, PR 1)
 
 Z `--wars` (3 seedy, mapa standard, 1000 tur; wykres decyzji wyżej jest już z tych gier):
